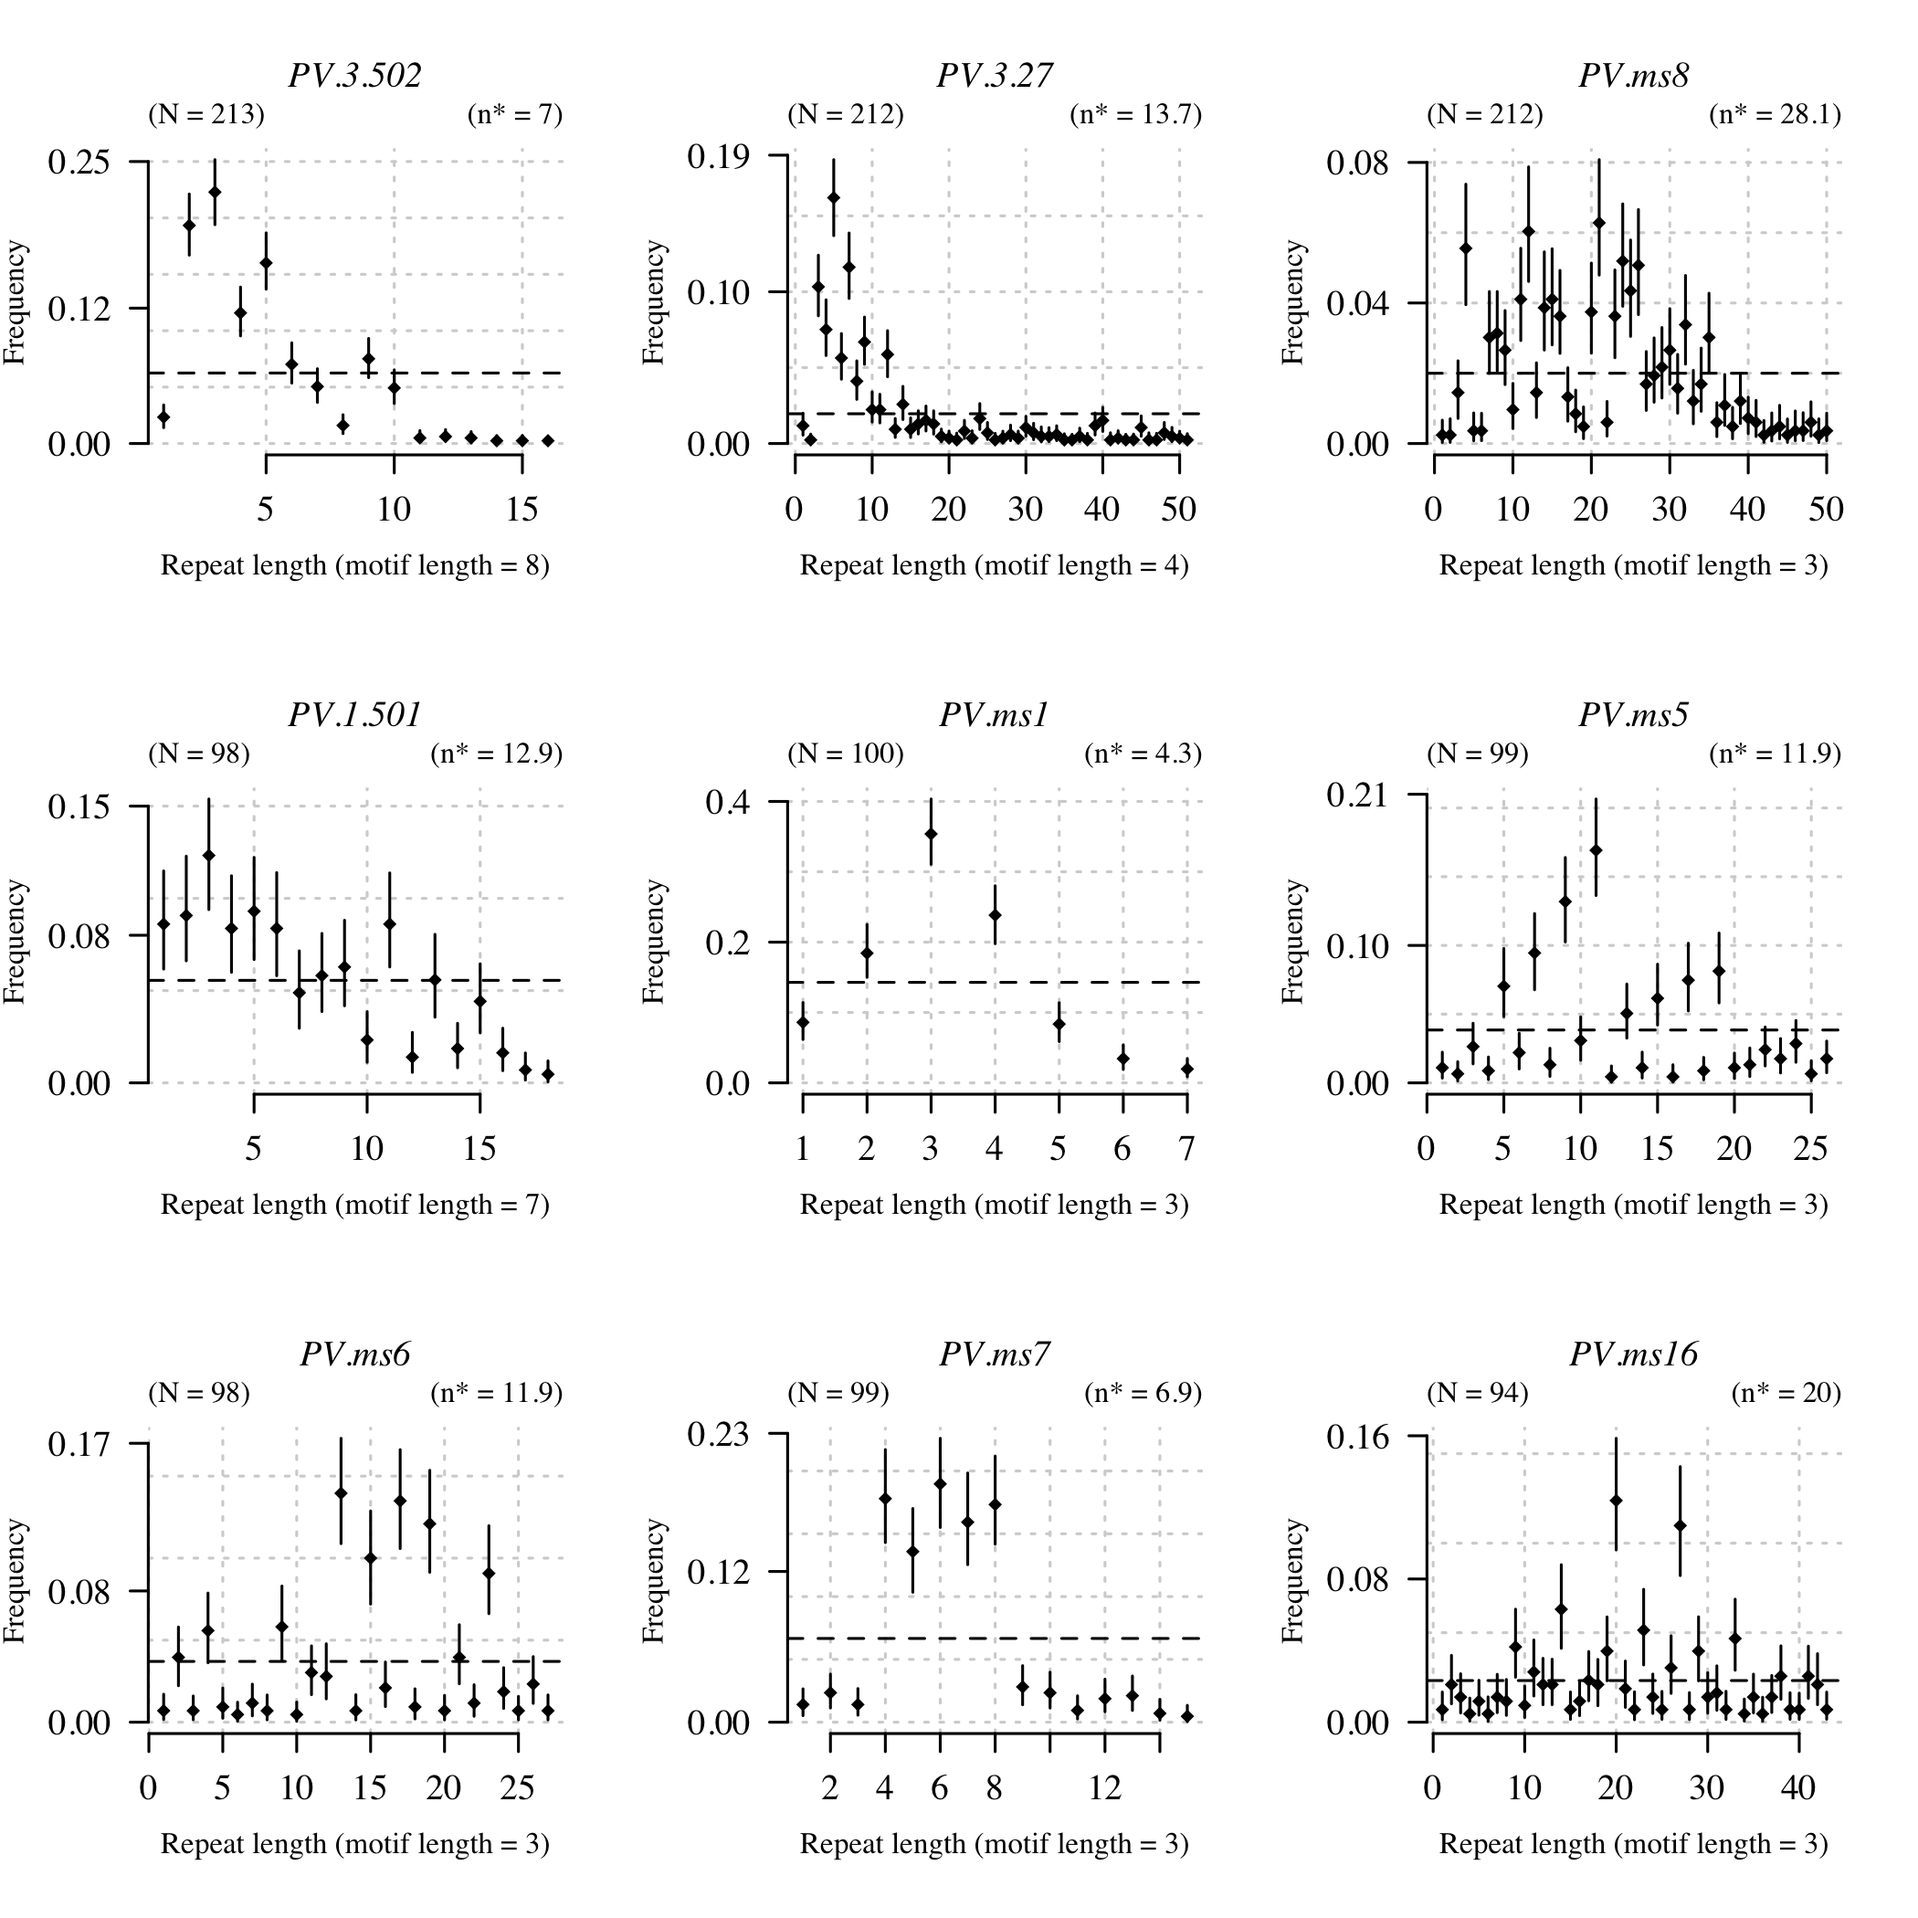
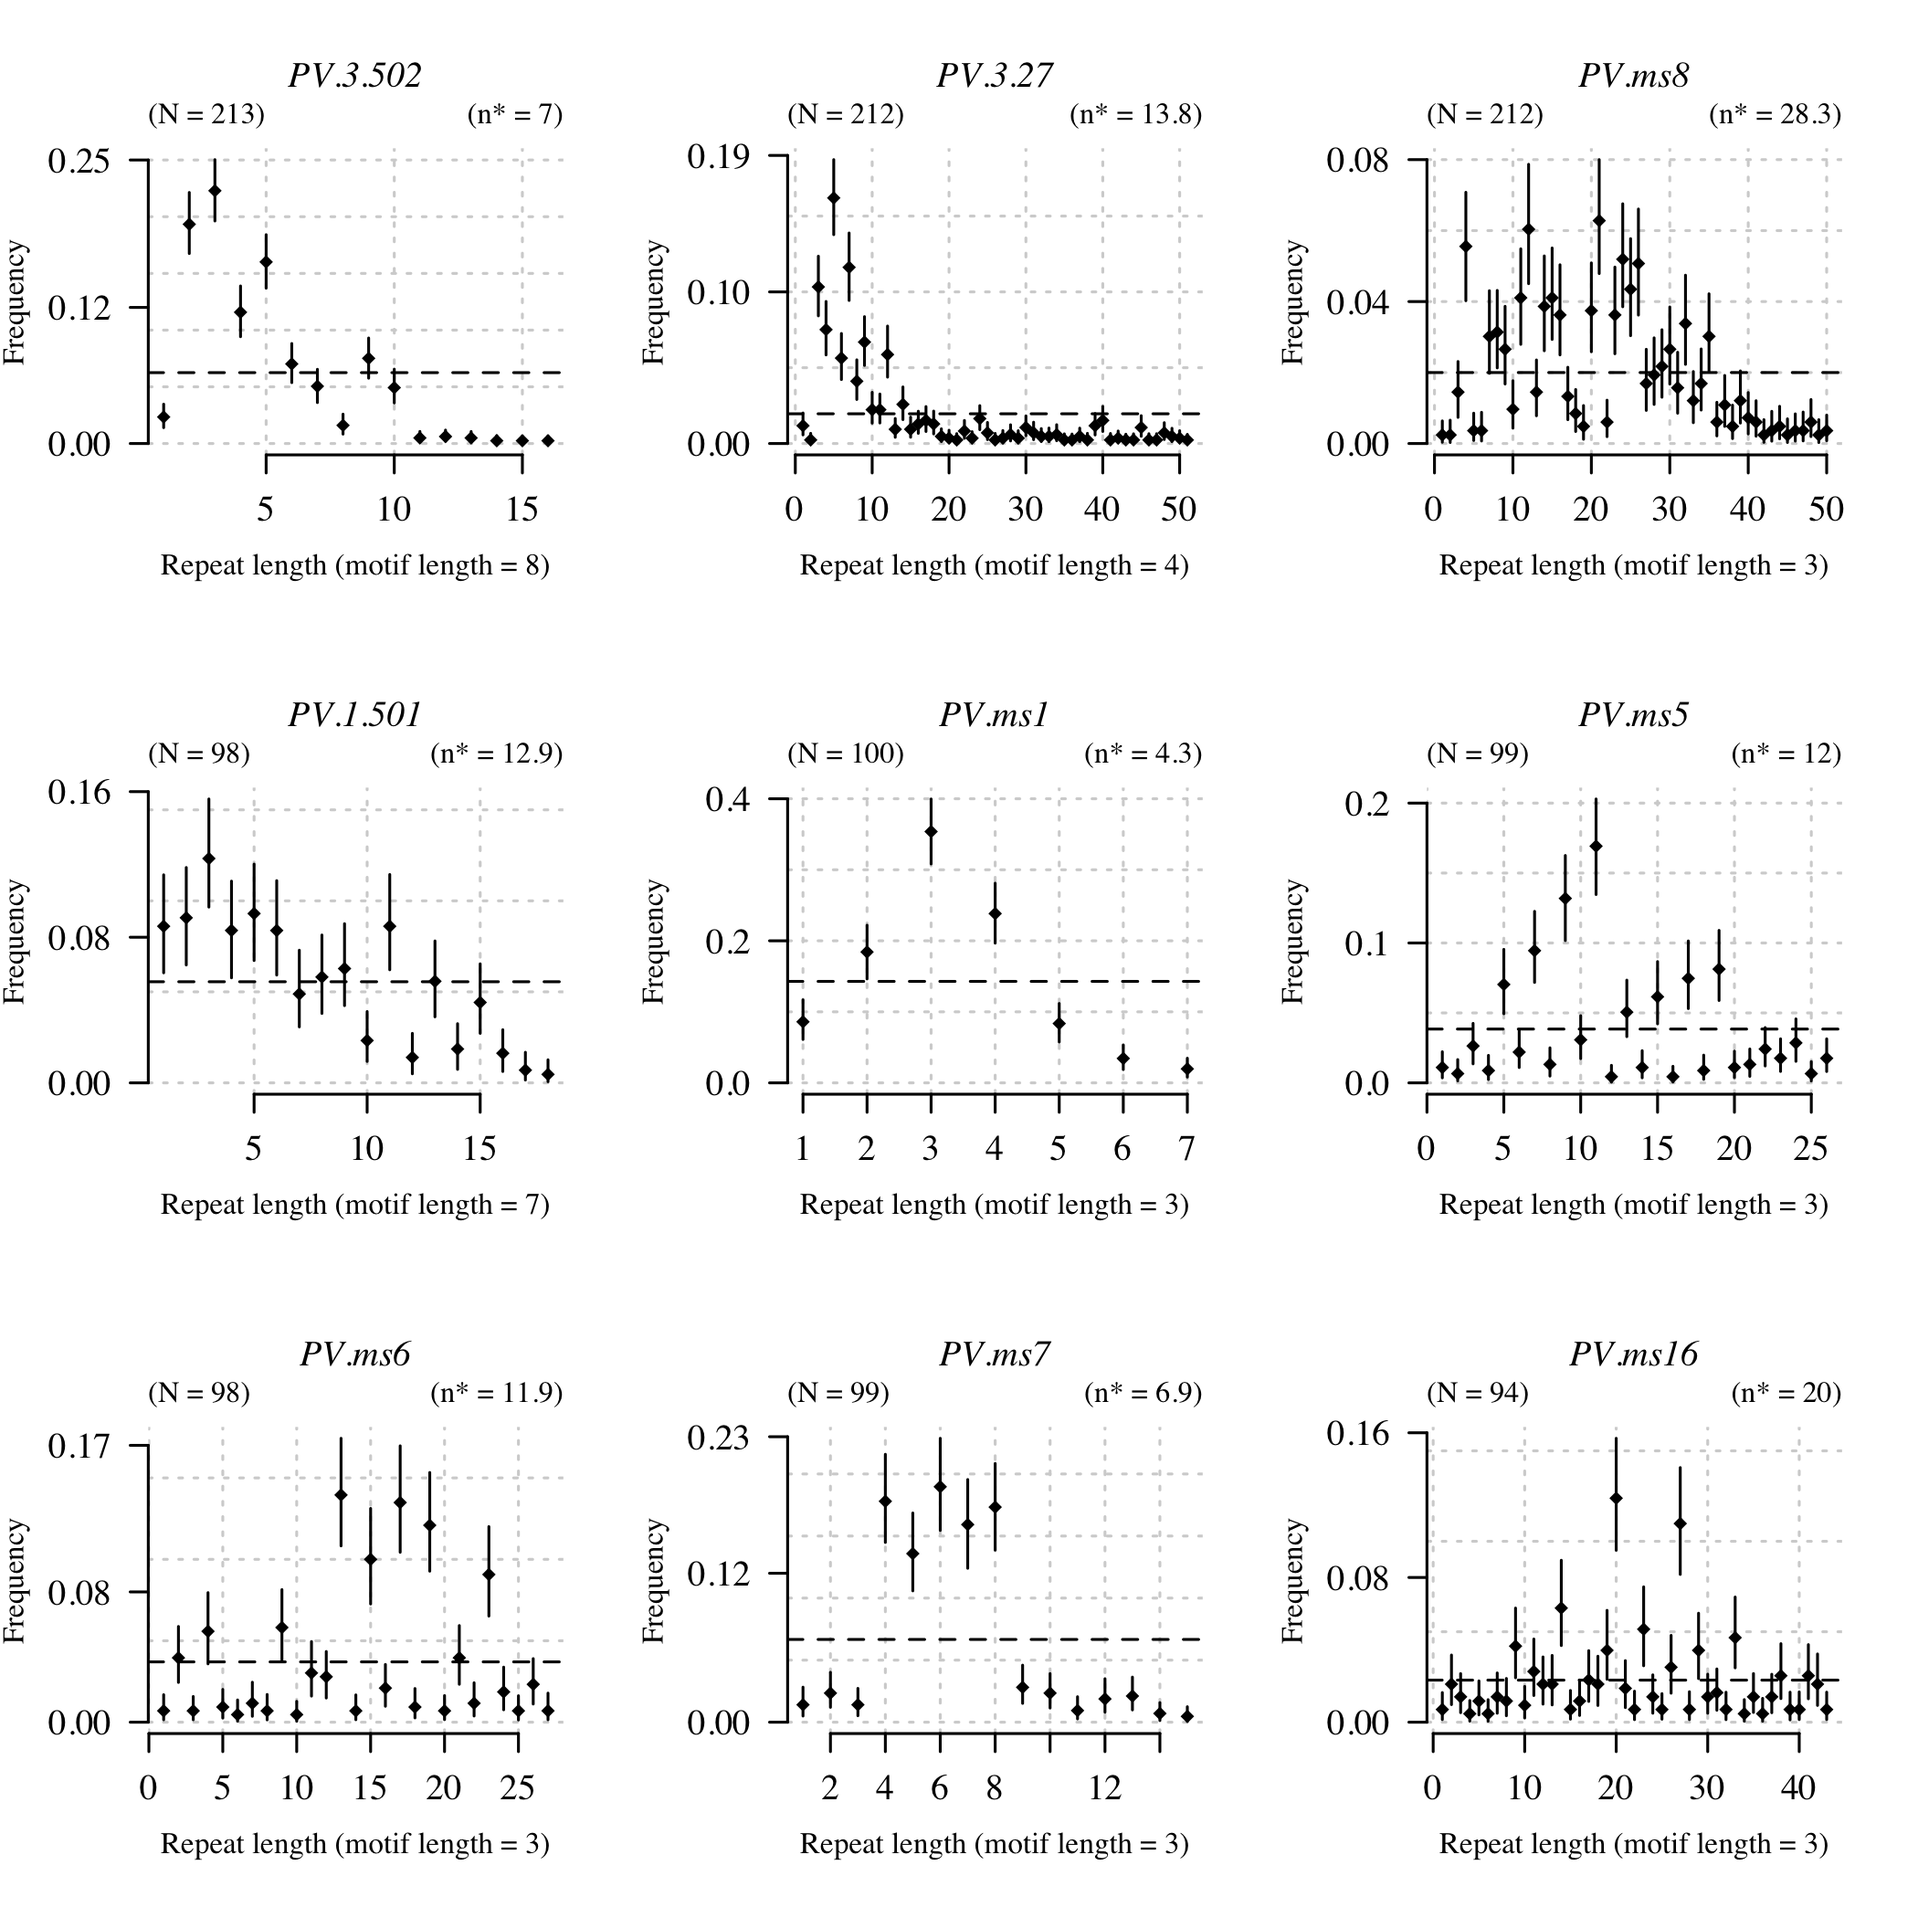
Edits to better understand numbers of individuals

diff --git a/Pooled_Final_Analysis/Pooled_Analysis.md b/Pooled_Final_Analysis/Pooled_Analysis.md
@@ -19,6 +19,10 @@ Summary of the data and the whole of the VHX data set versus the subset typed (i
 
 
 ```
+## Number of individuals in VHX and BPD trials: 644 and 655, respectively
+```
+
+```
 ## Number of individuals with at least one episode typed: 217
 ```
 
@@ -62,16 +66,11 @@ Summary of the data and the whole of the VHX data set versus the subset typed (i
 ```
 
 
-
 ```r
 #=================================================================
 # Were all episodes typed if a person was selected for genotyping? 
 #=================================================================
 MS_pooled_summary = MS_pooled[!duplicated(MS_pooled$Episode_Identifier),] # Collapse rows due to COI > 2
-censored_ind = Combined_Time_Data$Censored == 1 # index censored rows in Combined_Time_Data to prevent over counting rows
-uncensored_patientids = Combined_Time_Data[!censored_ind, 'patientid'] # vector of patientids excluding censored rows (inc. duplicates)
-All_VHX_epi_count = table(uncensored_patientids[grepl('VHX_',uncensored_patientids)]) # Number of episodes per person VHX
-All_BPD_epi_count = table(uncensored_patientids[grepl('BPD_',uncensored_patientids)]) # Number of episodes per person VHX
 
 # No. of typed episodes per person with one or more typed episodes in VHX and BPD
 no_of_typed_epi_per_person_typed_VHX = table(MS_pooled_summary$ID[grepl('VHX',MS_pooled_summary$ID)])  
@@ -81,23 +80,6 @@ no_of_typed_epi_per_person_typed_BPD = table(MS_pooled_summary$ID[grepl('BPD',MS
 no_of_epi_per_person_typed_VHX = All_VHX_epi_count[names(All_VHX_epi_count) %in% names(no_of_typed_epi_per_person_typed_VHX)]
 no_of_epi_per_person_typed_BPD = All_BPD_epi_count[names(All_BPD_epi_count) %in% names(no_of_typed_epi_per_person_typed_BPD)]
 
-
-length(All_VHX_epi_count)
-```
-
-```
-## [1] 644
-```
-
-```r
-length(All_BPD_epi_count)
-```
-
-```
-## [1] 655
-```
-
-```r
 #-------------------------
 # VHX data set summary: breif because genotyping VHX was not exhaustive
 #-------------------------
@@ -149,8 +131,15 @@ X5 = lapply(ind_missing_typed_epi, function(x){
 
 X6 = lapply(1:length(X5), function(i){setdiff(X4[[i]], X5[[i]])}) # Not typed episodes
 X7 = sum(sapply(X6, function(x)sum(x>1))) # Not typed recurrence
-```
 
+writeLines(paste(sprintf('BPD: of %s of the people who recurred: %s person/people with %s recurrence/s was not selected for genotyping.',
+                         length(unique(indivs_who_recurred)), 
+                         length(unique(indivs_who_were_not_typed)), 
+                         recurrences[indivs_who_were_not_typed]), 
+                 sprintf('Of %s of %s BPD individual/s selected for genotyping: %s to %s of their episodes were not typed (%s episodes summing over the %s individuals).', X1,X0,X2[1],X2[2],X3,X1), 
+                 sprintf('Of the %s episodes not typed %s were recurrences.',X3, X7),
+                 sprintf('In total there were %s recurrences: %s untyped.', sum(recurrences), recurrences[indivs_who_were_not_typed] + X7)))
+```
 
 ```
 ## BPD: of 81 of the people who recurred: 1 person/people with 1 recurrence/s was not selected for genotyping. Of 4 of 80 BPD individual/s selected for genotyping: 1 to 1 of their episodes were not typed (4 episodes summing over the 4 individuals). Of the 4 episodes not typed 3 were recurrences. In total there were 92 recurrences: 4 untyped.
@@ -265,7 +254,7 @@ We use a multinomial-dirichlet model with subjective weight $\omega$. $\omega = 
 ```r
 #==================================================================
 # Save a data set of monoclonal data and allele frequencies for
-# relatedness estimation 
+# relatedness estimation
 #==================================================================
 monoclonal_names = rownames(COIs)[COIs$MOI == 1]
 monoclonal_data = MS_pooled[MS_pooled$Episode_Identifier%in%monoclonal_names, ]
@@ -290,14 +279,14 @@ for(ms in MSs_all){
 ```
 
 ```
-## The effective cardinality for PV.3.502 with 13 observed alleles is 7.02
-## The effective cardinality for PV.3.27 with 33 observed alleles is 13.69
-## The effective cardinality for PV.ms8 with 46 observed alleles is 28.08
-## The effective cardinality for PV.1.501 with 17 observed alleles is 12.94
-## The effective cardinality for PV.ms1 with 7 observed alleles is 4.33
-## The effective cardinality for PV.ms5 with 24 observed alleles is 11.91
-## The effective cardinality for PV.ms6 with 25 observed alleles is 11.94
-## The effective cardinality for PV.ms7 with 14 observed alleles is 6.92
+## The effective cardinality for PV.3.502 with 13 observed alleles is 7.04
+## The effective cardinality for PV.3.27 with 33 observed alleles is 13.81
+## The effective cardinality for PV.ms8 with 46 observed alleles is 28.25
+## The effective cardinality for PV.1.501 with 17 observed alleles is 12.91
+## The effective cardinality for PV.ms1 with 7 observed alleles is 4.32
+## The effective cardinality for PV.ms5 with 24 observed alleles is 11.96
+## The effective cardinality for PV.ms6 with 25 observed alleles is 11.91
+## The effective cardinality for PV.ms7 with 14 observed alleles is 6.91
 ## The effective cardinality for PV.ms16 with 39 observed alleles is 20.01
 ```
 
@@ -310,7 +299,7 @@ writeLines(sprintf('The mean effective marker cardinality is %s, range: %s to %s
 ```
 
 ```
-## The mean effective marker cardinality is 12.97, range: 4.3 to 28.1
+## The mean effective marker cardinality is 13.01, range: 4.3 to 28.3
 ```
 
 
@@ -334,7 +323,7 @@ The following iterates through each individual and computes the probability of r
 
 
 ```r
-# # We also remove MS data for which there are no recurrent data
+# First we remove MS data for which there are no recurrent data
 N_episodes_typed = table(MS_pooled$ID[!duplicated(MS_pooled$Episode_Identifier)])
 MS_pooled = filter(MS_pooled, ID %in% names(N_episodes_typed[N_episodes_typed>1]))
 # recreate pooled summary dataset
@@ -416,7 +405,6 @@ thetas_9MS_Tagnostic = arrange(thetas_9MS_Tagnostic, Episode_Identifier)
 thetas_9MS$drug = Time_Estimates_1$arm_num # Add drug
 thetas_9MS_Tagnostic$drug = Time_Estimates_1$arm_num # Add drug
 
-
 # Extract BPD only for BPD only plots
 BPD_data = Thetas_full_post[grep('BPD',rownames(Thetas_full_post)),]
 Thetas_BPD = thetas_9MS[grep('BPD', thetas_9MS$Episode_Identifier),]
@@ -441,9 +429,10 @@ Probability of states, ordered from most to least likely:
 # BPD Final plot
 
 
-
 ```
-## The mean percentage of recurrences which are estimated to be relapses is 16%
+## The weighted average of recurrences which are estimated to be failures is 15.92%
+## The weighted average of recurrences which are estimated to be relapses is 15.78%
+## Number of BPD recurrences analysed: 87
 ```
 
 ![](Pooled_Analysis_files/figure-html/BPD_efficacy-1.png)<!-- -->
@@ -459,6 +448,11 @@ We remove the IDs that can be straightforwardly calculated:
 ind_calculated = which(MS_pooled_summary$Episode_Identifier %in% thetas_9MS$Episode_Identifier)
 IDs_calculated = unique(MS_pooled_summary$ID[ind_calculated])
 IDs_remaining = unique(MS_pooled_summary$ID[! MS_pooled_summary$ID %in% IDs_calculated])
+writeLines(sprintf('individuals with more than two recurrences: %s',length(IDs_remaining)))
+```
+
+```
+## individuals with more than two recurrences: 54
 ```
 
 We blow up the pooled analysis into all pairs within individuals:
@@ -601,6 +595,29 @@ MS_pooled_summary$Plotting_col_Values =
   as.numeric(mapvalues(MS_pooled_summary$L_or_C_state, from = c('L','Uncertain','I'), to = 1:3))
 ```
 
+```r
+# How many too complex to generate estimate for? 
+ind_recur = MS_pooled_summary$Episode > 1 # Filter out enrollment
+ind_complex_recur = is.na(MS_pooled_summary$L_mean[ind_recur])
+no_complex_recur = sum(ind_complex_recur) # Recurrences with NAs
+
+# How many of the complex infections result in the loss of an individual
+no_indiv_removed = sum(N_episodes_typed[MS_pooled_summary$ID[ind_recur][ind_complex_recur]] <= 2) 
+# Final number of people with recurrences analysed total and by trial
+indiv_recur_analysed = length(unique(MS_pooled_summary$ID[ind_recur][!ind_complex_recur])) 
+BPD_indiv_recur_analysed = sum(grepl('BPD', unique(MS_pooled_summary$ID[ind_recur][!ind_complex_recur])))
+VHX_indiv_recur_analysed = sum(grepl('VHX', unique(MS_pooled_summary$ID[ind_recur][!ind_complex_recur]))) 
+
+writeLines(sprintf('Of %s recurrences analysed, %s were too complex to estimate recurrence state probabilities, resulting in probability estimates for a total of %s recurrences from %s individuals (%s BPD and %s VHX)',
+                   sum(ind_recur), no_complex_recur,  sum(!ind_complex_recur), 
+                   indiv_recur_analysed, BPD_indiv_recur_analysed, VHX_indiv_recur_analysed))
+```
+
+```
+## Of 493 recurrences analysed, 7 were too complex to estimate recurrence state probabilities, resulting in probability estimates for a total of 486 recurrences from 208 individuals (77 BPD and 131 VHX)
+```
+
+
 ![](Pooled_Analysis_files/figure-html/CoatneyStylePLot-1.png)<!-- -->
 
 ```
@@ -691,7 +708,7 @@ Results for all those genotyped who did receive primaquine (VHX and BPD studies 
 ## In primaquine treated individuals, the weighted average of reinfections is 85.7 (83.3-87.5), for 121 recurrences
 ```
 
-Results for all those genotyped who did receive primaquine, only in the VHX study (unknown denominator)
+Results for all those genotyped who did receive primaquine in the VHX study (unknown denominator)
 
 ```
 ## In primaquine treated individuals (VHX), the weighted average of relapses is 10.4 (8.5-12.7), for 34 recurrences
@@ -942,7 +959,7 @@ hist(Combined_Time_Data$log10_carboxyPMQ[Combined_Time_Data$NumberDaysPMQ==14],
 abline(v = mu_hat_14 - sd_hat_14*3)
 ```
 
-![](Pooled_Analysis_files/figure-html/unnamed-chunk-31-1.png)<!-- -->
+![](Pooled_Analysis_files/figure-html/unnamed-chunk-32-1.png)<!-- -->
 
 ```r
 outliers7 = Combined_Time_Data$NumberDaysPMQ==7 & Combined_Time_Data$log10_carboxyPMQ<mu_hat_7 - sd_hat_7*3
@@ -1056,8 +1073,7 @@ writeLines(sprintf('The primaquine failure rate in the %s individuals is %s%% (%
 ```
 
 
-This won't go into this paper but looking out of interest:
-Does 2D6 correlate with carboxy ?
+Not in manuscript, but looking out of interest: does 2D6 correlate with carboxy ?
 
 
 ```r
@@ -1115,7 +1131,7 @@ plot(Combined_Time_Data$ASscore, Combined_Time_Data$log10_carboxyPMQ, pch=20)
 lines(xs, predict(mod_2D6, data.frame(ASscore=xs,NumberDaysPMQ=7,patientid='new'),allow.new.levels=T),lwd=3)
 ```
 
-![](Pooled_Analysis_files/figure-html/unnamed-chunk-33-1.png)<!-- -->
+![](Pooled_Analysis_files/figure-html/unnamed-chunk-34-1.png)<!-- -->
 
 
 
@@ -1191,7 +1207,9 @@ if(RUN_MODELS_SINGLE_SIMPLE){
 
 ```r
 par(las=1, bty='n', mfrow=c(2,2))
-plot(log10(thetas_9MS$L), log10(thetas_9MS_alphaUpper$L),
+plot(thetas_9MS$L, 
+     thetas_9MS_alphaUpper$L,
+     log = 'xy',
      ylab = 'Relapse: inbred',
      xlab = 'Relapse: no inbreeding',
      col= drug_cols2[thetas_9MS$drug],pch=20)
@@ -1206,7 +1224,8 @@ legend('topleft', legend = c('No PMQ', 'PMQ+'), col = drug_cols2[2:3], pch = 20,
 
 ###****** Reinfection : comparison *****#####
 par(las=1, bty='n')
-plot(log10(thetas_9MS$I), log10(thetas_9MS_alphaUpper$I),
+plot(thetas_9MS$I, thetas_9MS_alphaUpper$I,
+     log = 'xy',
      ylab = 'Reinfection: inbred',
      xlab = 'Reinfection: no inbreeding',
      col= drug_cols2[thetas_9MS$drug],pch=20)
@@ -1221,7 +1240,7 @@ legend('topleft', legend = c('No PMQ', 'PMQ+'), col = drug_cols2[2:3], pch = 20,
 abline(h=0,lty=2)
 ```
 
-![](Pooled_Analysis_files/figure-html/unnamed-chunk-36-1.png)<!-- -->
+![](Pooled_Analysis_files/figure-html/unnamed-chunk-37-1.png)<!-- -->
 
 Interpretation: Adding the inbreeding coefficent slightly changes some of the probabilities of relapse for some primaquine treated individuals (only green dots are being shifted).
 This means that inbreeding would imply that fewer of the primaquine treated episodes are relapses, implying higher efficacy of the drug.
